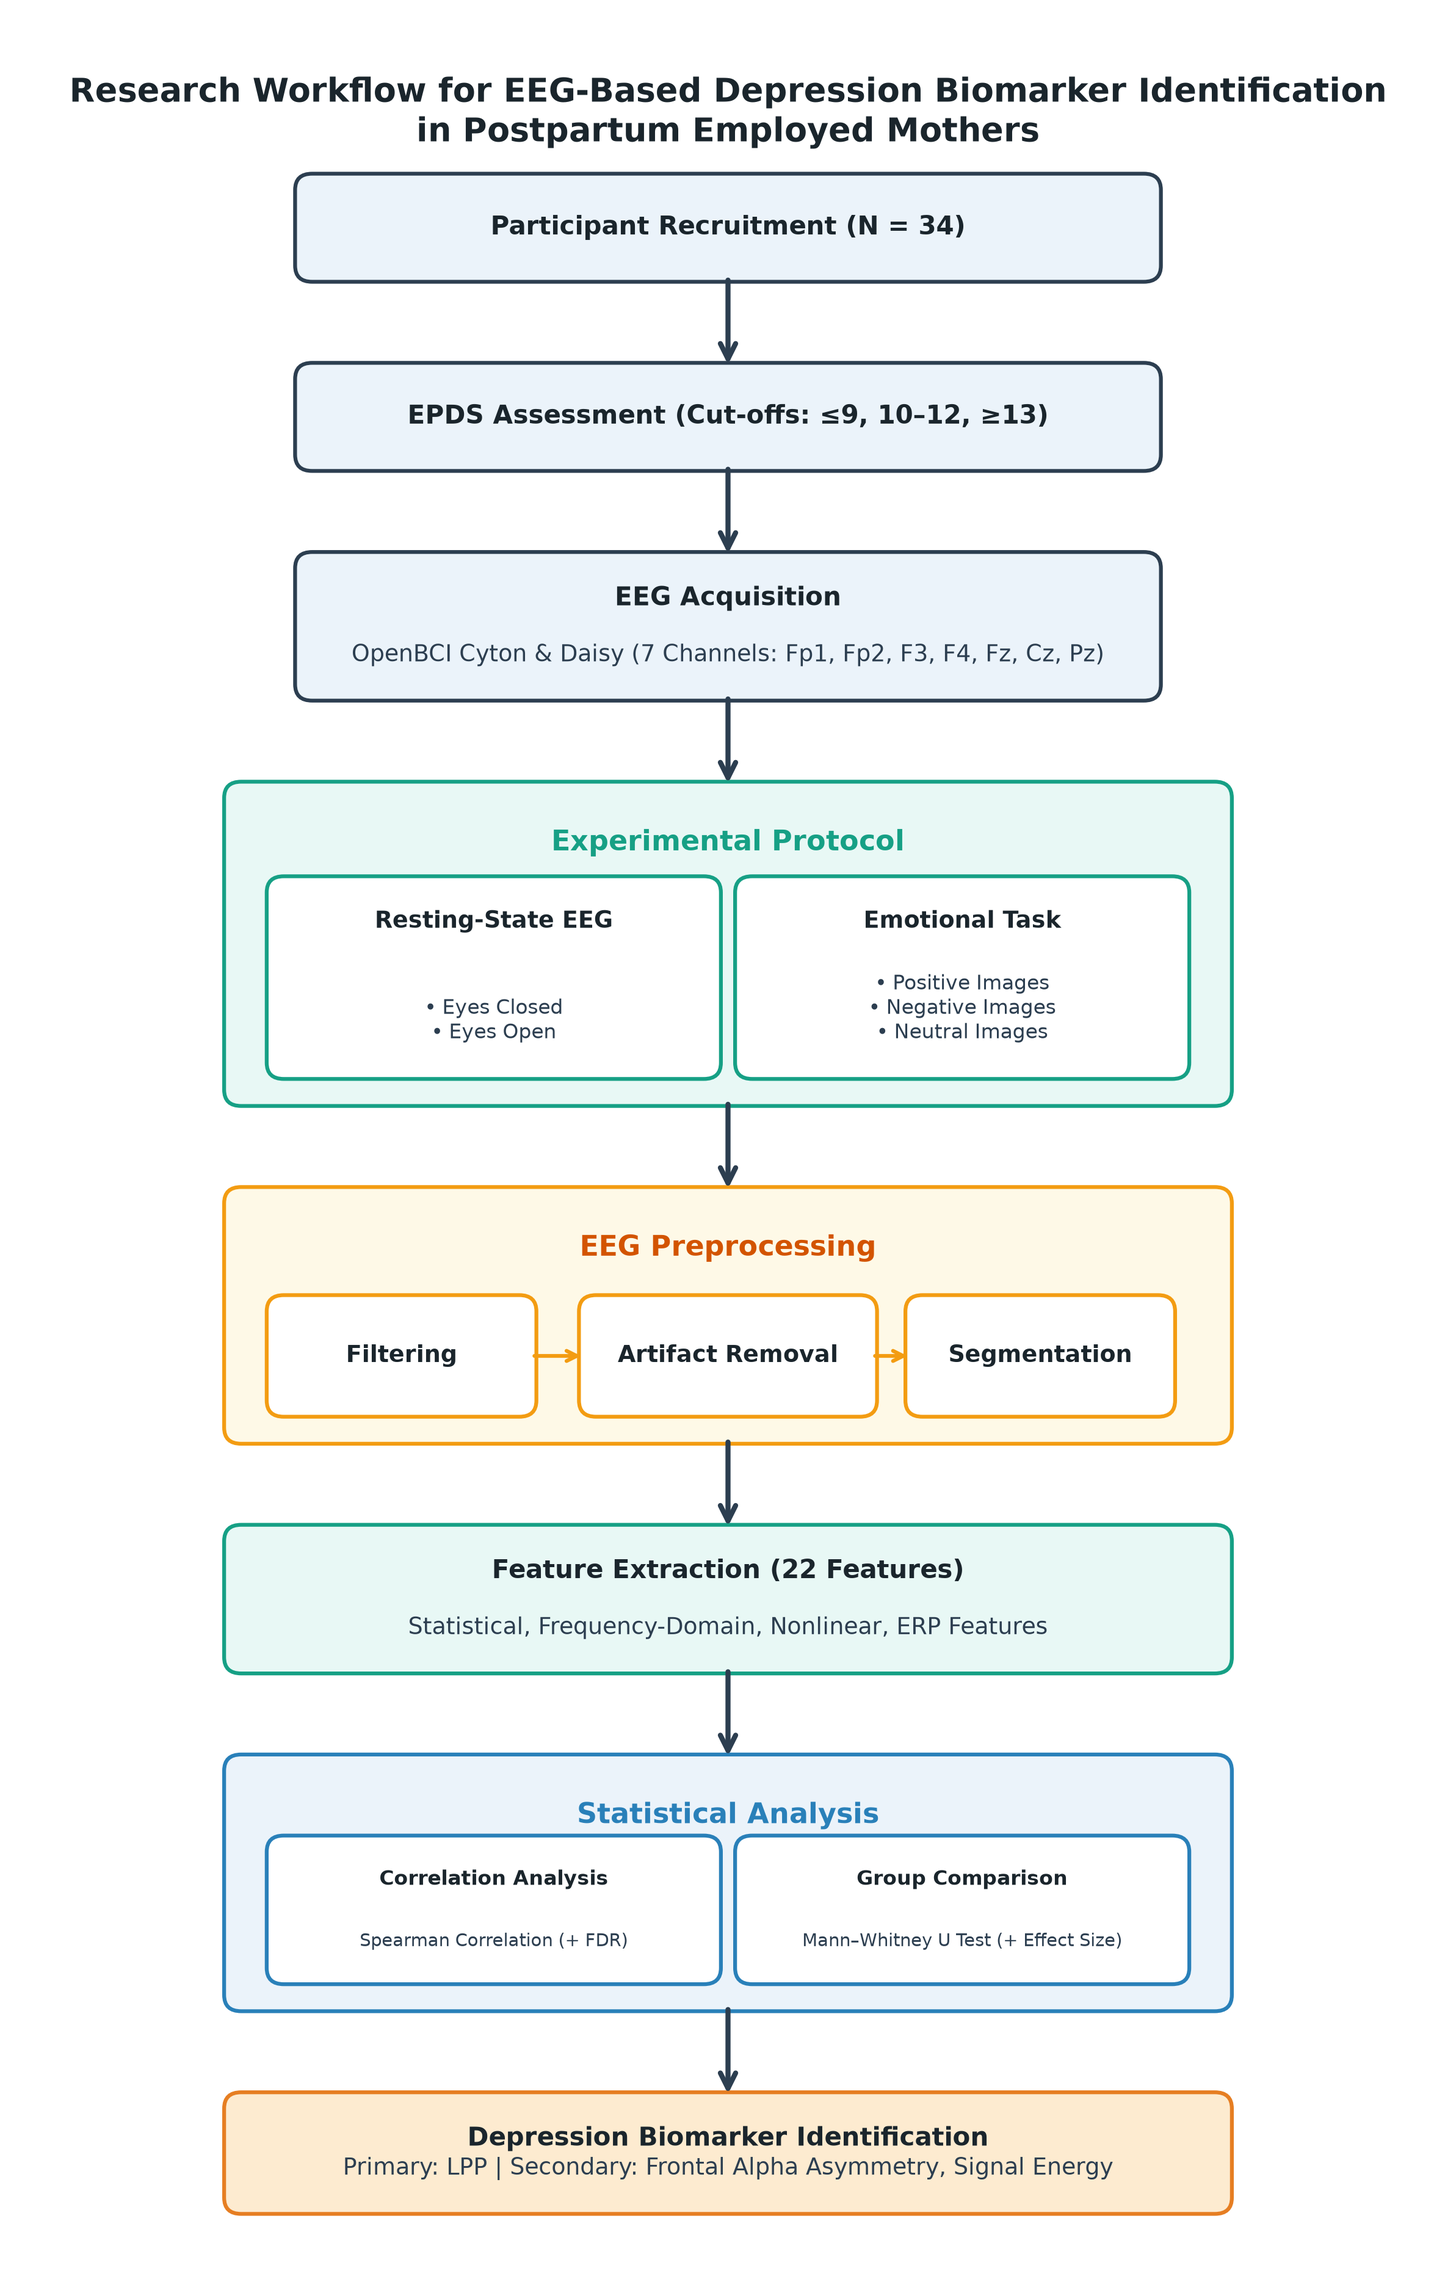
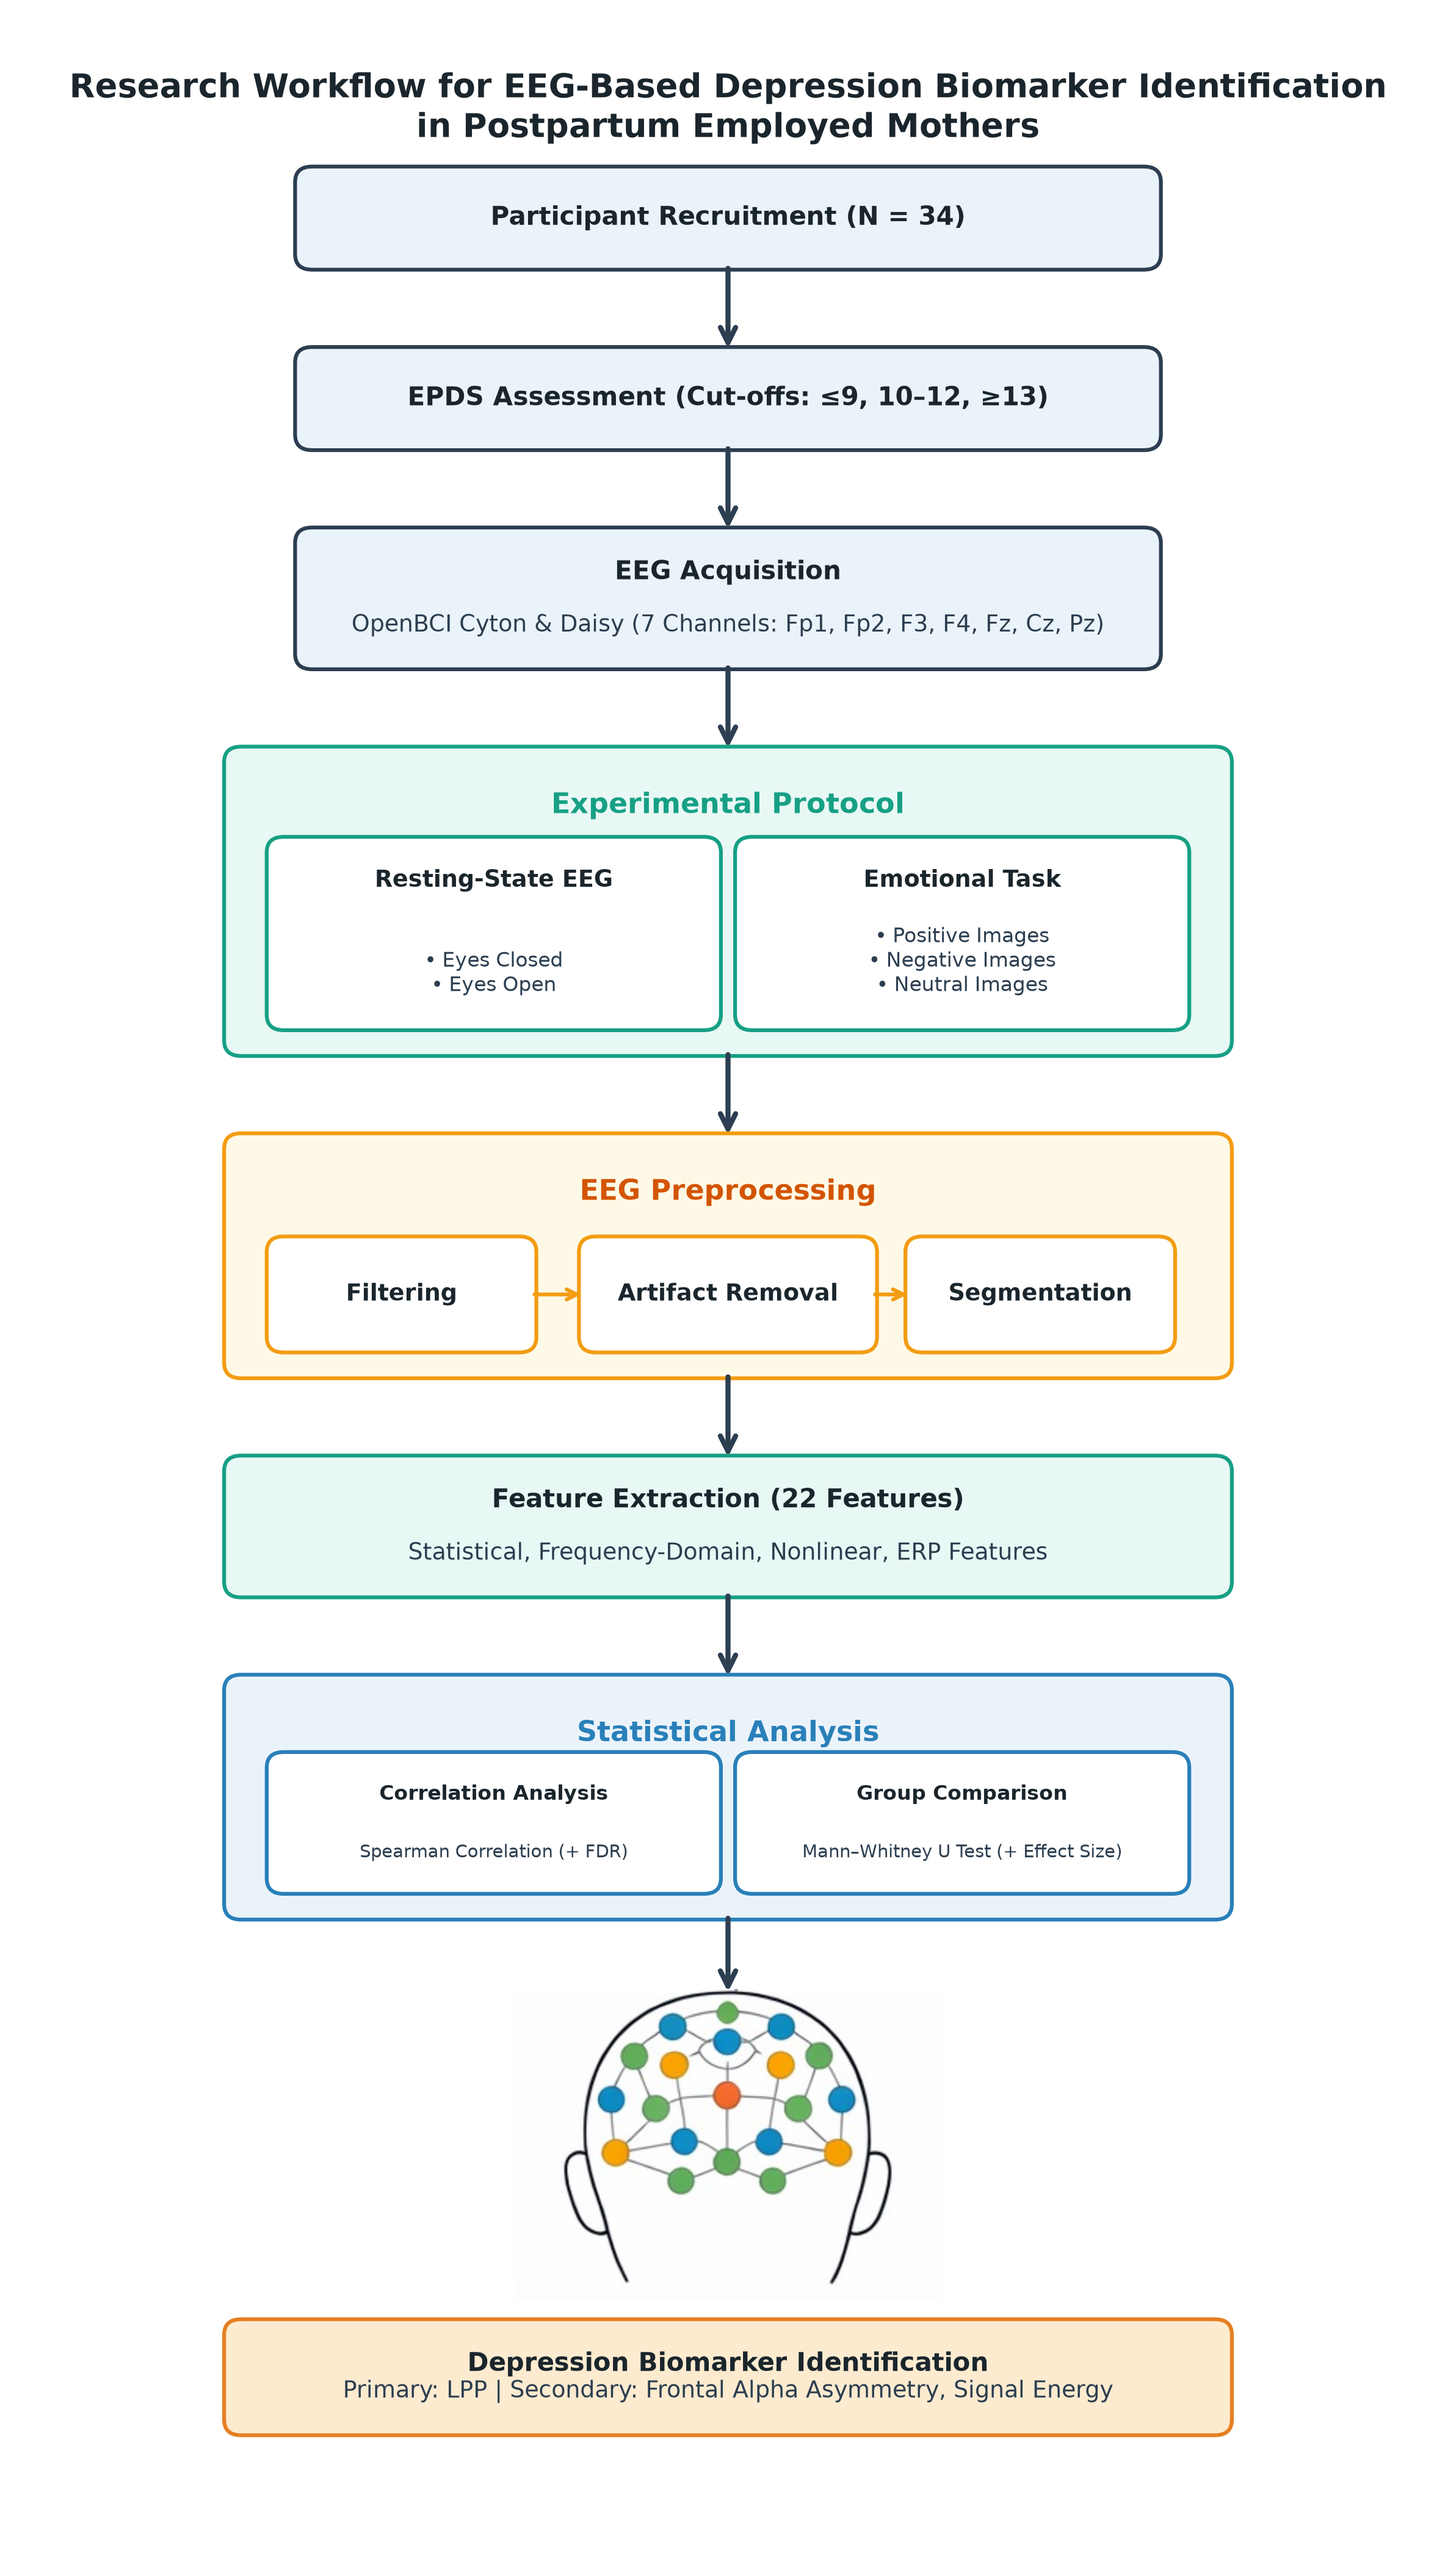
refactor : changes made to add the image to the workflow

diff --git a/generate_workflow.py b/generate_workflow.py
@@ -1,9 +1,11 @@
 import matplotlib.pyplot as plt
 import matplotlib.patches as patches
+import matplotlib.image as mpimg
+from matplotlib.offsetbox import OffsetImage, AnnotationBbox
 
-fig, ax = plt.subplots(figsize=(10, 16))
+fig, ax = plt.subplots(figsize=(10, 18))
 ax.set_xlim(0, 10)
-ax.set_ylim(-0.5, 16.2)
+ax.set_ylim(-3.5, 16.2) # Shifted bottom bound down to -3.5
 ax.axis('off')
 
 # Box Drawing Helper
@@ -67,10 +69,25 @@ draw_box(ax, 1.5, 1.5, 7.0, 1.8, bg='#EBF3FA', border='#2980B9')
 ax.text(5.0, 3.0, "Statistical Analysis", weight='bold', ha='center', va='top', fontsize=11, color='#2980B9')
 draw_box(ax, 1.8, 1.7, 3.1, 1.0, title="Correlation Analysis", text="Spearman Correlation (+ FDR)", bg='#FFFFFF', border='#2980B9', fontsize=8)
 draw_box(ax, 5.1, 1.7, 3.1, 1.0, title="Group Comparison", text="Mann–Whitney U Test (+ Effect Size)", bg='#FFFFFF', border='#2980B9', fontsize=8)
-draw_arrow(ax, 1.5, 0.8)
+draw_arrow(ax, 1.5, 0.85)
+
+# INSERT IMAGE HERE (Scaled down and placed in a container)
+try:
+    img = mpimg.imread(r'C:\Users\cnevi\Projects\BCI-PPD\sample_image.png')
+    # Reduced zoom to make the image much smaller
+    imagebox = OffsetImage(img, zoom=0.25) 
+    # Placement at x=5.0, y=-0.6, with a visible bounding box (square canvas)
+    ab = AnnotationBbox(imagebox, (5.0, -0.3), frameon=False, 
+                        bboxprops=dict(edgecolor='#2C3E50', facecolor='#FFFFFF', boxstyle="round,pad=0.8", lw=1.5))
+    ax.add_artist(ab)
+    
+    # Draw arrow from image down to the final box
+    # draw_arrow(ax, -1.5, -2.2)
+except Exception as e:
+    print(f"Error loading image: {e}")
 
 # Step 8: Biomarker Identification (Lifted up above y=0)
-draw_box(ax, 1.5, 0.0, 7.0, 0.8, title="Depression Biomarker Identification", 
+draw_box(ax, 1.5, -2.5, 7.0, 0.8, title="Depression Biomarker Identification", 
          text="Primary: LPP | Secondary: Frontal Alpha Asymmetry, Signal Energy", bg='#FDEBD0', border='#E67E22')
 
 plt.savefig("Research_Workflow_Diagram_PERFECT.png", dpi=300, bbox_inches='tight')
